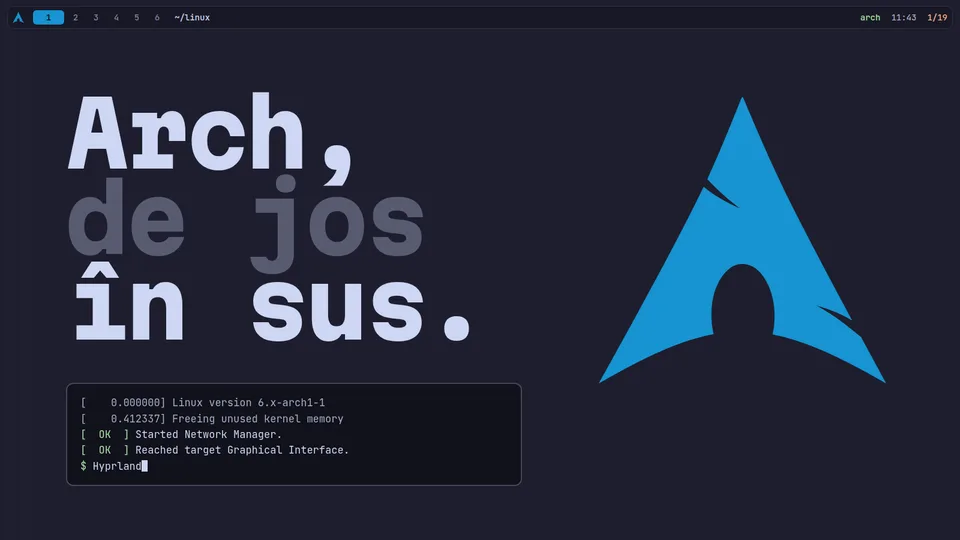
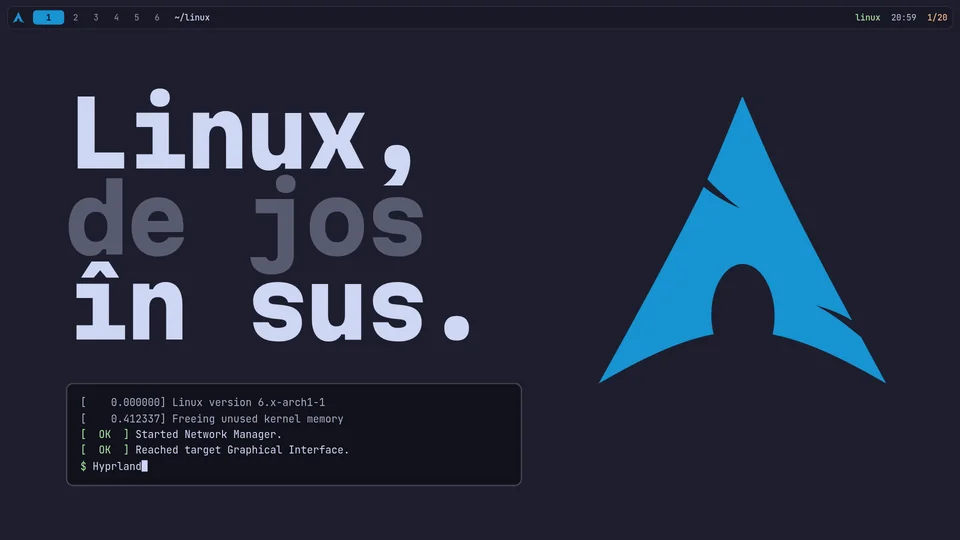
Linux, nu doar Arch: slide de distribuții, EndeavourOS recomandat, captură tiling reală
- titlul devine „Linux, de jos în sus”; Arch rămâne exemplul
- slide nou 16: Debian/Fedora/Arch ca tabel, EndeavourOS marcat ca recomandare
- instalarea și finalul recomandă EndeavourOS (fetch cu logo-ul lui)
- captura Hyprland (floating, deși scria tiling) înlocuită cu una de pe laptop
- note, meniu, miniatură și README aduse la 20 de slide-uri

Changed region(s): [[0.0625, 0.1481, 0.4375, 0.3556], [0.9062, 0.0296, 0.9375, 0.0593]]

diff --git a/linux/index.html b/linux/index.html
@@ -3,8 +3,8 @@
 <head>
 <meta charset="utf-8">
 <meta name="viewport" content="width=device-width, initial-scale=1">
-<title>Arch, de jos în sus</title>
-<meta name="description" content="Cum e construit Linux: kernel, systemd, daemoni, Wayland, window manageri floating și tiling, pacman.">
+<title>Linux, de jos în sus</title>
+<meta name="description" content="Cum e construit Linux: kernel, systemd, daemoni, Wayland, window manageri floating și tiling, distribuții, pacman.">
 <link rel="icon" href="../assets/linux/arch-logo.svg">
 <link rel="stylesheet" href="../assets/fonts/martian.css">
 <link rel="stylesheet" href="../assets/fonts/jetbrains.css">
@@ -276,7 +276,20 @@ code, .mono { font-family: var(--f-mono); }
 @keyframes press { 0%, 70%, 100% { transform: none; border-bottom-width: 6px; } 76%, 86% { transform: translateY(4px); border-bottom-width: 2px; } }
 .combo .res { margin-left: 8px; color: var(--text); }
 
-/* ——— S16 pacman ——— */
+/* ——— S16 distribuții: tabel, nu carduri. Rândul Arch e cel aprins. ——— */
+.distros { position: absolute; left: 110px; width: calc(100% - 220px); top: 300px; border-collapse: collapse; font: 500 22px/1.3 var(--f-mono); }
+.distros th { text-align: left; font: 500 15px var(--f-mono); color: var(--ov); letter-spacing: .06em; padding: 0 24px 14px 0; border-bottom: 2px solid var(--s1); }
+.distros td { padding: 28px 24px 28px 0; border-bottom: 1px solid var(--s0); vertical-align: top; }
+.distros td:first-child { font: 800 26px var(--f-disp); letter-spacing: -.02em; color: var(--text); width: 250px; }
+.distros td code { color: var(--peach); font-weight: 700; }
+.distros .cap { display: block; margin-top: 6px; }
+.distros tr.hot td { background: rgba(23,147,209,.10); }
+.distros tr.hot td:first-child { color: var(--arch); box-shadow: inset 4px 0 0 var(--arch); padding-left: 20px; }
+.distros .pick { display: inline-block; margin-left: 12px; padding: 3px 10px; border-radius: 6px; background: var(--arch); color: var(--crust); font: 700 14px var(--f-mono); vertical-align: 3px; }
+.kern-note { position: absolute; left: 110px; bottom: 84px; margin: 0; font: 500 18px var(--f-mono); color: var(--ov); }
+.kern-note b { color: var(--text); }
+
+/* ——— S17 pacman ——— */
 .pac { position: absolute; left: 110px; right: 110px; top: 250px; height: 300px; }
 .pac svg { width: 100%; height: 100%; overflow: visible; }
 .pac text { font-family: var(--f-mono); }
@@ -285,7 +298,7 @@ code, .mono { font-family: var(--f-mono); }
 .pc code { display: block; font: 700 21px var(--f-mono); color: var(--text); }
 .pc span { font: 400 16px var(--f-mono); color: var(--ov); }
 
-/* ——— S17 instalare ——— */
+/* ——— S18 instalare ——— */
 .steps { position: absolute; left: 110px; right: 110px; top: 280px; display: grid; grid-template-columns: repeat(4, 1fr); gap: 18px; }
 .step { background: var(--mantle); border-radius: 12px; padding: 20px 20px 22px; border: 2px solid var(--s0); min-height: 188px; display: flex; flex-direction: column; }
 .step .i { font: 800 18px var(--f-disp); color: var(--arch); }
@@ -293,8 +306,9 @@ code, .mono { font-family: var(--f-mono); }
 .step code { margin-top: auto; font: 500 17px var(--f-mono); color: var(--green); }
 .shortcut { position: absolute; left: 110px; right: 110px; bottom: 70px; display: flex; align-items: center; gap: 24px; font: 500 20px var(--f-mono); color: var(--sub); }
 .shortcut code { font: 700 24px var(--f-mono); color: var(--crust); background: var(--peach); padding: 10px 18px; border-radius: 8px; }
+.shortcut code.eos { background: var(--mauve); }
 
-/* ——— S18 fițuică ——— */
+/* ——— S19 fițuică ——— */
 .cheat { position: absolute; left: 110px; right: 110px; top: 250px; columns: 3; column-gap: 50px; }
 .cheat div { break-inside: avoid; display: grid; grid-template-columns: 1fr; padding: 11px 0; border-bottom: 1px solid var(--s0); }
 .cheat code { font: 700 20px var(--f-mono); color: var(--text); }
@@ -302,14 +316,15 @@ code, .mono { font-family: var(--f-mono); }
 .cheat h4 { margin: 0 0 6px; font: 800 18px var(--f-disp); color: var(--arch); letter-spacing: 0; }
 .cheat h4:not(:first-child) { margin-top: 26px; }
 
-/* ——— S19 final ——— */
+/* ——— S20 final ——— */
 .fetch { position: absolute; left: 110px; top: 190px; display: flex; gap: 60px; font: 500 22px/1.42 var(--f-mono); }
-.fetch pre { margin: 0; font: 700 20px/1.12 var(--f-mono); color: var(--arch); }
+.fetch pre { margin: 0; font: 700 20px/1.12 var(--f-mono); color: var(--mauve); }
 .fetch .kv b { color: var(--arch); }
 .fetch .pal { display: flex; margin-top: 18px; }
 .fetch .pal i { width: 42px; height: 26px; }
 .btw { position: absolute; left: 110px; bottom: 90px; font: 800 84px var(--f-disp); letter-spacing: -.05em; }
 .btw span { color: var(--s1); }
+.btw small { display: block; margin-top: 14px; font: 500 22px var(--f-mono); letter-spacing: 0; color: var(--ov); }
 </style>
 </head>
 <body>
@@ -319,12 +334,12 @@ code, .mono { font-family: var(--f-mono); }
     <svg class="logo" viewBox="0 0 24 24"><path fill="#1793d1" d="M11.39.605C10.376 3.092 9.764 4.72 8.635 7.132c.693.734 1.543 1.589 2.923 2.554-1.484-.61-2.496-1.224-3.252-1.86C6.86 10.842 4.596 15.138 0 23.395c3.612-2.085 6.412-3.37 9.021-3.862a6.61 6.61 0 01-.171-1.547l.003-.115c.058-2.315 1.261-4.095 2.687-3.973 1.426.12 2.534 2.096 2.478 4.409a6.52 6.52 0 01-.146 1.243c2.58.505 5.352 1.787 8.914 3.844-.702-1.293-1.33-2.459-1.929-3.57-.943-.73-1.926-1.682-3.933-2.713 1.38.359 2.367.772 3.137 1.234-6.09-11.334-6.582-12.84-8.67-17.74z"/></svg>
     <div class="ws" id="ws"><span>1</span><span>2</span><span>3</span><span>4</span><span>5</span><span>6</span></div>
     <span class="ttl" id="ttl"></span>
-    <div class="right"><span><b>arch</b></span><span id="clk">--:--</span><span class="n" id="num"></span></div>
+    <div class="right"><span><b>linux</b></span><span id="clk">--:--</span><span class="n" id="num"></span></div>
   </div>
 
   <!-- 1 · copertă -->
   <section class="slide cover" data-ws="1" data-t="~/linux">
-    <h1 class="in" style="--d:.1s">Arch,<br><span class="dim">de jos</span><br>în sus.</h1>
+    <h1 class="in" style="--d:.1s">Linux,<br><span class="dim">de jos</span><br>în sus.</h1>
     <svg class="archbig" viewBox="-0.5 0 25 24.5" aria-hidden="true">
       <path class="draw" style="--d:.3s" d="M11.39.605C10.376 3.092 9.764 4.72 8.635 7.132c.693.734 1.543 1.589 2.923 2.554-1.484-.61-2.496-1.224-3.252-1.86C6.86 10.842 4.596 15.138 0 23.395c3.612-2.085 6.412-3.37 9.021-3.862a6.61 6.61 0 01-.171-1.547l.003-.115c.058-2.315 1.261-4.095 2.687-3.973 1.426.12 2.534 2.096 2.478 4.409a6.52 6.52 0 01-.146 1.243c2.58.505 5.352 1.787 8.914 3.844-.702-1.293-1.33-2.459-1.929-3.57-.943-.73-1.926-1.682-3.933-2.713 1.38.359 2.367.772 3.137 1.234-6.09-11.334-6.582-12.84-8.67-17.74z"/>
       <path class="fillme" d="M11.39.605C10.376 3.092 9.764 4.72 8.635 7.132c.693.734 1.543 1.589 2.923 2.554-1.484-.61-2.496-1.224-3.252-1.86C6.86 10.842 4.596 15.138 0 23.395c3.612-2.085 6.412-3.37 9.021-3.862a6.61 6.61 0 01-.171-1.547l.003-.115c.058-2.315 1.261-4.095 2.687-3.973 1.426.12 2.534 2.096 2.478 4.409a6.52 6.52 0 01-.146 1.243c2.58.505 5.352 1.787 8.914 3.844-.702-1.293-1.33-2.459-1.929-3.57-.943-.73-1.926-1.682-3.933-2.713 1.38.359 2.367.772 3.137 1.234-6.09-11.334-6.582-12.84-8.67-17.74z"/>
@@ -371,7 +386,7 @@ code, .mono { font-family: var(--f-mono); }
       <div class="bnode" style="left:40%;--d:2s"><div class="dot">02</div><b>Bootloader</b><span>systemd-boot<br>GRUB</span></div>
       <div class="bnode" style="left:60%;--d:2.8s"><div class="dot">03</div><b>Kernel</b><span>+ initramfs</span></div>
       <div class="bnode" style="left:80%;--d:3.6s"><div class="dot">04</div><b>systemd</b><span>PID 1<br>pornește tot</span></div>
-      <div class="bnode last" style="left:100%;--d:4.5s"><div class="dot">05</div><b>Hyprland</b><span>login → desktop</span></div>
+      <div class="bnode last" style="left:100%;--d:4.5s"><div class="dot">05</div><b>Desktop</b><span>Hyprland · KDE<br>GNOME</span></div>
     </div>
     <div class="term in" style="position:absolute;left:110px;right:110px;bottom:84px;--d:4.8s">
       <span class="tag">cât a durat · exemplu</span>
@@ -608,8 +623,8 @@ code, .mono { font-family: var(--f-mono); }
         <figcaption><b>KDE Plasma</b> · floating · tot inclus<em>captură: kde.org</em></figcaption>
       </figure>
       <figure class="shot in" style="--d:.4s;margin:0">
-        <img src="../assets/linux/hypr-rice.webp" alt="Desktop Hyprland: ferestre așezate automat, fără suprapuneri" loading="lazy">
-        <figcaption><b>Hyprland</b> · tiling · construit de mână<em>captură: concursul de ricing hypr.land (amadeus)</em></figcaption>
+        <img src="../assets/linux/hypr-tiling.webp" alt="Desktop Hyprland: fastfetch, btop și browserul, așezate automat unul lângă altul, fără suprapuneri" loading="lazy">
+        <figcaption><b>Hyprland</b> · tiling · construit de mână<em>captură: laptopul meu, EndeavourOS</em></figcaption>
       </figure>
     </div>
   </section>
@@ -696,9 +711,23 @@ code, .mono { font-family: var(--f-mono); }
     </div>
   </section>
 
-  <!-- 16 · pacman + AUR -->
+  <!-- 16 · distribuții -->
+  <section class="slide" data-ws="6" data-t="distro">
+    <h2 class="in">Distribuții.<small>același kernel · altă rețetă în jurul lui</small></h2>
+    <table class="distros in" style="--d:.3s">
+      <thead><tr><th>FAMILIA</th><th>EXEMPLE</th><th>PACHETE</th><th>UPDATE-URI</th></tr></thead>
+      <tbody>
+        <tr><td>Debian</td><td>Ubuntu · Mint<span class="cap">cele mai folosite pe desktop</span></td><td><code>apt</code></td><td>versiuni fixe<span class="cap">Ubuntu LTS: una la 2 ani</span></td></tr>
+        <tr><td>Fedora</td><td>Fedora<span class="cap">sponsorizată de Red Hat</span></td><td><code>dnf</code></td><td>versiune nouă<span class="cap">la ~6 luni</span></td></tr>
+        <tr class="hot"><td>Arch</td><td>Arch · EndeavourOS<span class="pick">recomand</span><span class="cap">EndeavourOS = Arch cu installer grafic</span></td><td><code>pacman</code></td><td>rolling<span class="cap">mereu la zi, fără versiuni mari</span></td></tr>
+      </tbody>
+    </table>
+    <p class="kern-note in" style="--d:.9s">Tot ce am văzut până aici (<b>kernel, systemd, Wayland, tiling</b>) e la fel pe toate trei.</p>
+  </section>
+
+  <!-- 17 · pacman + AUR -->
   <section class="slide" data-ws="6" data-t="pacman">
-    <h2 class="in">pacman<span class="mute"> &amp; </span><span style="color:#fab387">AUR</span></h2>
+    <h2 class="in">pacman<span class="mute"> &amp; </span><span style="color:#fab387">AUR</span><small>managerul de pachete din Arch · Ubuntu are apt, Fedora dnf</small></h2>
     <div class="pac">
       <svg viewBox="0 0 1380 300" aria-hidden="true">
         <g class="in" style="--d:.2s">
@@ -739,9 +768,9 @@ code, .mono { font-family: var(--f-mono); }
     </div>
   </section>
 
-  <!-- 17 · instalare -->
+  <!-- 18 · instalare -->
   <section class="slide" data-ws="6" data-t="install">
-    <h2 class="in">Instalarea.<small>de pe stick, în terminal</small></h2>
+    <h2 class="in">Instalarea.<small>Arch, de mână, în terminal</small></h2>
     <div class="steps" data-stagger=".3,.1">
       <div class="step in"><span class="i">01</span><b>Boot de pe ISO</b><code>archlinux.iso</code></div>
       <div class="step in"><span class="i">02</span><b>Internet</b><code>iwctl</code></div>
@@ -752,10 +781,10 @@ code, .mono { font-family: var(--f-mono); }
       <div class="step in"><span class="i">07</span><b>User + parolă</b><code>useradd -m tu</code></div>
       <div class="step in" style="border-color:#a6e3a1"><span class="i" style="color:#a6e3a1">08</span><b>Reboot</b><code>pacman -S hyprland</code></div>
     </div>
-    <div class="shortcut in" style="--d:1.4s">scurtătură →<code>archinstall</code><span>meniu ghidat, 10 minute</span></div>
+    <div class="shortcut in" style="--d:1.4s">sau, recomandarea mea →<code class="eos">EndeavourOS</code><span>tot Arch, cu installer grafic · 15 minute</span></div>
   </section>
 
-  <!-- 18 · fițuică -->
+  <!-- 19 · fițuică -->
   <section class="slide" data-ws="6" data-t="fițuică">
     <h2 class="in" style="font-size:64px">Fițuica.</h2>
     <div class="cheat in" style="--d:.2s">
@@ -773,7 +802,7 @@ code, .mono { font-family: var(--f-mono); }
       <div><code>systemctl enable --now X</code><span>pornește + la boot</span></div>
       <div><code>journalctl -b -p err</code><span>erorile de azi</span></div>
       <h4>sistem</h4>
-      <div><code>sudo pacman -Syu</code><span>update</span></div>
+      <div><code>sudo pacman -Syu</code><span>update · pe Ubuntu: apt upgrade</span></div>
       <div><code>df -h · free -h</code><span>disc · RAM</span></div>
       <div><code>lsblk</code><span>discurile</span></div>
       <div><code>ip a</code><span>IP-ul tău</span></div>
@@ -781,32 +810,29 @@ code, .mono { font-family: var(--f-mono); }
     </div>
   </section>
 
-  <!-- 19 · final -->
+  <!-- 20 · final -->
   <section class="slide" data-ws="6" data-t="btw">
     <div class="fetch">
-<pre class="in" aria-hidden="true">                   -`
-                  .o+`
-                 `ooo/
-                `+oooo:
-               `+oooooo:
-               -+oooooo+:
-             `/:-:++oooo+:
-            `/++++/+++++++:
-           `/++++++++++++++:
-          `/+++ooooooooooooo/`
-         ./ooosssso++osssssso+`
-        .oossssso-````/ossssss+`
-       -osssssso.      :ssssssso.
-      :osssssss/        osssso+++.
-     /ossssssss/        +ssssooo/-
-   `/ossssso+/:-        -:/+osssso+-
-  `+sso+:-`                 `.-/+oso:
- `++:.                           `-/+/
- .`                                 `/</pre>
+<pre class="in" aria-hidden="true">                     ./o.
+                   ./sssso-
+                 `:osssssss+-
+               `:+sssssssssso/.
+             `-/ossssssssssssso/.
+           `-/+sssssssssssssssso+:`
+         `-:/+sssssssssssssssssso+/.
+       `.://osssssssssssssssssssso++-
+      .://+ssssssssssssssssssssssso++:
+    .:///ossssssssssssssssssssssssso++:
+  `:////ssssssssssssssssssssssssssso+++.
+`-////+ssssssssssssssssssssssssssso++++-
+ `..-+oosssssssssssssssssssssssso+++++/`
+   ./++++++++++++++++++++++++++++++/:.
+  `:::::::::::::::::::::::::------``</pre>
       <div class="kv in" style="--d:.3s">
-        <div><b>tu</b>@<b>arch</b></div>
+        <div><b>tu</b>@<b>endeavour</b></div>
         <div class="mute">----------</div>
-        <div><b>OS</b>: Arch Linux x86_64</div>
+        <div><b>OS</b>: EndeavourOS x86_64</div>
+        <div><b>Bază</b>: Arch Linux</div>
         <div><b>Kernel</b>: linux</div>
         <div><b>Init</b>: systemd</div>
         <div><b>WM</b>: Hyprland (Wayland)</div>
@@ -816,7 +842,7 @@ code, .mono { font-family: var(--f-mono); }
         <div class="pal"><i style="background:#1e1e2e"></i><i style="background:#f38ba8"></i><i style="background:#a6e3a1"></i><i style="background:#f9e2af"></i><i style="background:#89b4fa"></i><i style="background:#cba6f7"></i><i style="background:#94e2d5"></i><i style="background:#cdd6f4"></i></div>
       </div>
     </div>
-    <div class="btw in" style="--d:.8s">i use arch <span>btw.</span></div>
+    <div class="btw in" style="--d:.8s">i use arch <span>btw.</span><small>(prin EndeavourOS, care e tot Arch)</small></div>
   </section>
 
 </div>

diff --git a/note/index.html b/note/index.html
@@ -114,12 +114,12 @@ footer { padding-block: 40px 60px; color: var(--ash); font-size: 14px; }
 
 <!-- ————————————————————————— LINUX ————————————————————————— -->
 <section id="linux">
-  <h2>Arch, de jos <i>în sus.</i></h2>
-  <p class="meta">01 · 19 slide-uri · urci de la hardware la ferestre</p>
+  <h2>Linux, de jos <i>în sus.</i></h2>
+  <p class="meta">01 · 20 slide-uri · urci de la hardware la ferestre</p>
 
   <article id="linux-1"><span class="n">1</span><div>
     <h3>Copertă</h3>
-    <p>„Azi desfacem Linux-ul strat cu strat: de la hardware până la ferestrele pe care le vezi. Eu folosesc Arch cu Hyprland, deci toate exemplele sunt de acolo.”</p>
+    <p>„Azi desfacem Linux-ul strat cu strat: de la hardware până la ferestrele pe care le vezi. Aproape tot ce arăt e la fel pe orice distribuție. Eu folosesc Arch, prin EndeavourOS, cu Hyprland, deci exemplele sunt de acolo.”</p>
     <p>Jos se vede un boot adevărat: kernelul pornește, apoi rulează Hyprland. Lasă animația să se termine înainte să treci mai departe.</p>
   </div></article>
 
@@ -190,7 +190,7 @@ footer { padding-block: 40px 60px; color: var(--ash); font-size: 14px; }
 
   <article id="linux-12"><span class="n">12</span><div>
     <h3>În realitate</h3>
-    <p>Stânga: KDE Plasma, floating, cu tot inclus. Seamănă cu Windows, e bun ca prim Linux. Dreapta: un desktop Hyprland dintr-un concurs de ricing. Cineva l-a construit piesă cu piesă.</p>
+    <p>Stânga: KDE Plasma, floating, cu tot inclus. Seamănă cu Windows, e bun ca prim Linux. Dreapta: laptopul meu, cu Hyprland. Trei programe deschise (fastfetch, btop și chiar prezentarea asta) s-au așezat singure unul lângă altul, fără să le mut eu.</p>
   </div></article>
 
   <article id="linux-13"><span class="n">13</span><div>
@@ -213,27 +213,35 @@ footer { padding-block: 40px 60px; color: var(--ash); font-size: 14px; }
   </div></article>
 
   <article id="linux-16"><span class="n">16</span><div>
+    <h3>Distribuții</h3>
+    <p>Kernelul e același peste tot. O <b>distribuție</b> e pachetul din jurul lui: cum instalezi programe, cât de des vin update-urile, ce desktop primești din start. Trei familii mari:</p>
+    <p><b>Debian</b> (Ubuntu, Mint): <code>apt</code>, versiuni fixe; Ubuntu scoate o versiune LTS la doi ani. <b>Fedora</b>: <code>dnf</code>, versiune nouă cam la șase luni. <b>Arch</b>: <code>pacman</code>, rolling release, adică primești update-uri mereu, fără versiuni mari.</p>
+    <p class="k">Recomandarea mea: EndeavourOS. E Arch, cu tot ce ai văzut aici, dar se instalează dintr-un installer grafic, nu din terminal.</p>
+    <p class="q"><b>„Care e cea mai ușoară?”</b> Mint sau Ubuntu, dacă vrei să nu te atingi de terminal. EndeavourOS, dacă vrei să înveți cum merge sistemul și să fie mereu la zi.</p>
+  </div></article>
+
+  <article id="linux-17"><span class="n">17</span><div>
     <h3>pacman &amp; AUR</h3>
-    <p><b>pacman</b> instalează programe din depozitele oficiale Arch: verificate, semnate, gata compilate. <b>AUR</b> e depozitul comunității: nu are programele în sine, are rețete (PKGBUILD) după care <code>yay</code> sau <code>paru</code> descarcă și compilează programul.</p>
+    <p><b>pacman</b> e managerul de pachete al lui Arch (pe Ubuntu faci același lucru cu <code>apt</code>). Instalează programe din depozitele oficiale: verificate, semnate, gata compilate. <b>AUR</b> e depozitul comunității: nu are programele în sine, are rețete (PKGBUILD) după care <code>yay</code> sau <code>paru</code> descarcă și compilează programul.</p>
     <p>Arch e „rolling release”: nu există versiuni mari ca Windows 10 → 11, primești update-uri mereu, cu <code>-Syu</code>.</p>
     <p class="k">În AUR poate urca oricine orice. Citește rețeta înainte să instalezi.</p>
   </div></article>
 
-  <article id="linux-17"><span class="n">17</span><div>
+  <article id="linux-18"><span class="n">18</span><div>
     <h3>Instalarea</h3>
-    <p>Treci repede prin cei 8 pași: pornești de pe stick, te conectezi la internet, faci partițiile, instalezi sistemul de bază, intri în el, pui bootloader-ul, îți faci user, restart. Totul în terminal.</p>
-    <p class="k">Scurtătura e <code>archinstall</code>: un meniu ghidat, gata în vreo 10 minute.</p>
+    <p>Așa se instalează Arch de mână. Treci repede prin cei 8 pași: pornești de pe stick, te conectezi la internet, faci partițiile, instalezi sistemul de bază, intri în el, pui bootloader-ul, îți faci user, restart. Totul în terminal.</p>
+    <p class="k">Dacă vrei să-l încerci, nu începe așa: ia <b>EndeavourOS</b>. Pui stick-ul, dai click prin installer și în vreo 15 minute ai tot Arch, cu desktopul ales. (Mai există <code>archinstall</code>, un meniu ghidat în terminal.)</p>
     <p class="q"><b>„De unde învăț?”</b> Wiki-ul Arch (wiki.archlinux.org), pagina „Installation guide”. E cea mai bună documentație de Linux, chiar dacă folosești altă distribuție.</p>
   </div></article>
 
-  <article id="linux-18"><span class="n">18</span><div>
+  <article id="linux-19"><span class="n">19</span><div>
     <h3>Fițuica <span class="q">· se poate sări</span></h3>
     <p>Nu le citi pe toate. „Astea sunt comenzile pe care le folosesc zilnic: faceți-i poză.” Poți arăta două: <code>btop</code> (ce mănâncă procesorul) și <code>man</code> (manualul oricărei comenzi).</p>
   </div></article>
 
-  <article id="linux-19"><span class="n">19</span><div>
+  <article id="linux-20"><span class="n">20</span><div>
     <h3>i use arch btw</h3>
-    <p>Ecranul arată ca fastfetch, rezumatul pe care îl postează toată lumea cu desktopul ei. Glumă de final: „i use arch btw” e meme-ul oficial al comunității.</p>
+    <p>Ecranul arată ca fastfetch, rezumatul pe care îl postează toată lumea cu desktopul ei, aici cu logo-ul EndeavourOS. Glumă de final: „i use arch btw” e meme-ul oficial al comunității, și rămâne adevărat: EndeavourOS e tot Arch.</p>
     <p>Treci la întrebări, sau spune: „Asta a fost mașina. Acum: AI-ul care rulează pe ea.”</p>
   </div></article>
 </section>

diff --git a/index.html b/index.html
@@ -219,7 +219,7 @@ a { color: inherit; text-decoration: none; }
     <div class="u">RACK <b>U01–U03</b> · sept 2026 · ro</div>
     <h1>Ce prezentăm <em>azi?</em></h1>
     <ol class="idx">
-      <li><a class="linux" data-k="linux" href="linux/index.html"><span class="u">U01</span><span class="t">Arch, de jos <i>în sus.</i></span><span class="m">Catppuccin · Martian Mono · 19 slide-uri</span></a></li>
+      <li><a class="linux" data-k="linux" href="linux/index.html"><span class="u">U01</span><span class="t">Linux, de jos <i>în sus.</i></span><span class="m">Catppuccin · Martian Mono · 20 slide-uri</span></a></li>
       <li><a class="claude" data-k="claude" href="claude/index.html"><span class="u">U02</span><span class="t">Claude, <i>pe bune.</i></span><span class="m">ivory, slate, clay · Newsreader · 19 slide-uri</span></a></li>
       <li><a class="agenti" data-k="agenti" href="agenti/index.html"><span class="u">U03</span><span class="t">Servere <i>&amp;</i> agenți.</span><span class="m">cerneală, gravuri Hermes · Bodoni · 19 slide-uri</span></a></li>
     </ol>
@@ -228,8 +228,8 @@ a { color: inherit; text-decoration: none; }
 
   <section class="tiles" aria-label="Previzualizări">
     <a class="win linux" data-k="linux" data-slot="m" href="linux/index.html">
-      <img src="assets/thumbs/linux-01.webp" alt="Coperta: Arch, de jos în sus" width="960" height="540">
-      <span class="cap"><span>~/linux · kernel → pacman</span><kbd>↵ deschide</kbd></span>
+      <img src="assets/thumbs/linux-01.webp" alt="Coperta: Linux, de jos în sus" width="960" height="540">
+      <span class="cap"><span>~/linux · kernel → distribuții</span><kbd>↵ deschide</kbd></span>
     </a>
     <a class="win claude" data-k="claude" data-slot="a" href="claude/index.html">
       <img src="assets/thumbs/claude-01.webp" alt="Coperta: Claude, pe bune" width="960" height="540">

diff --git a/README.md b/README.md
@@ -6,7 +6,7 @@ Online (GitHub Pages): **https://elod3.github.io/prezentari/**
 
 | # | Prezentare | Temă | Fonturi |
 |---|---|---|---|
-| 01 | [Arch, de jos în sus](linux/index.html) | Catppuccin Mocha + albastrul Arch, bara de sus e un waybar (workspace = capitol) | Martian Mono, JetBrains Mono |
+| 01 | [Linux, de jos în sus](linux/index.html) | Catppuccin Mocha + albastrul Arch, bara de sus e un waybar (workspace = capitol). Linux în general, cu Arch ca exemplu; recomandarea de distribuție e EndeavourOS | Martian Mono, JetBrains Mono |
 | 02 | [Claude, pe bune](claude/index.html) | paleta Anthropic: ivory, slate, clay | Newsreader, Hanken Grotesk, JetBrains Mono |
 | 03 | [Servere & agenți](agenti/index.html) | camera serverelor noaptea: șine de rack, gravurile Hermes, roșul OpenClaw | Bodoni Moda, IBM Plex Mono |
 
@@ -32,7 +32,7 @@ Deschide-le pe telefon cât proiectezi. Pe laptop, `N` în prezentare le deschid
 
 ## De unde vin materialele
 
-- Capturi: KDE (kde.org), Hyprland (concursul de ricing de pe hypr.land), Claude Code (claude.com), WhatsApp cu OpenClaw (docs.openclaw.ai).
+- Capturi: KDE (kde.org), Hyprland (laptopul autorului, EndeavourOS, septembrie 2026), Claude Code (claude.com), WhatsApp cu OpenClaw (docs.openclaw.ai).
 - Gravuri Hermes: hermes-agent.nousresearch.com. Logo OpenClaw: docs.openclaw.ai. Logo Arch: Simple Icons.
 - Prețuri și modele Claude: septembrie 2026, per 1M tokeni (intrare / ieșire).
 - Comenzile de instalare OpenClaw și Hermes: README-urile oficiale, septembrie 2026.
